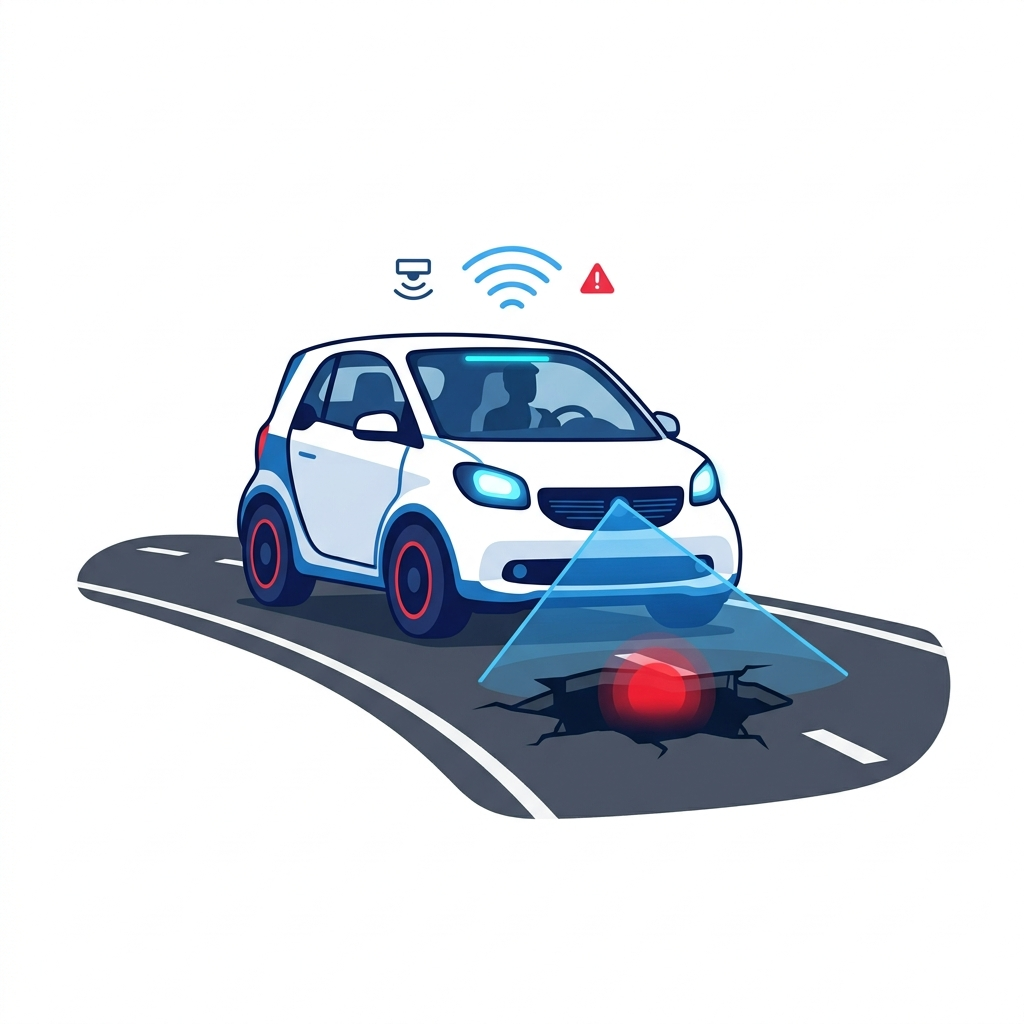
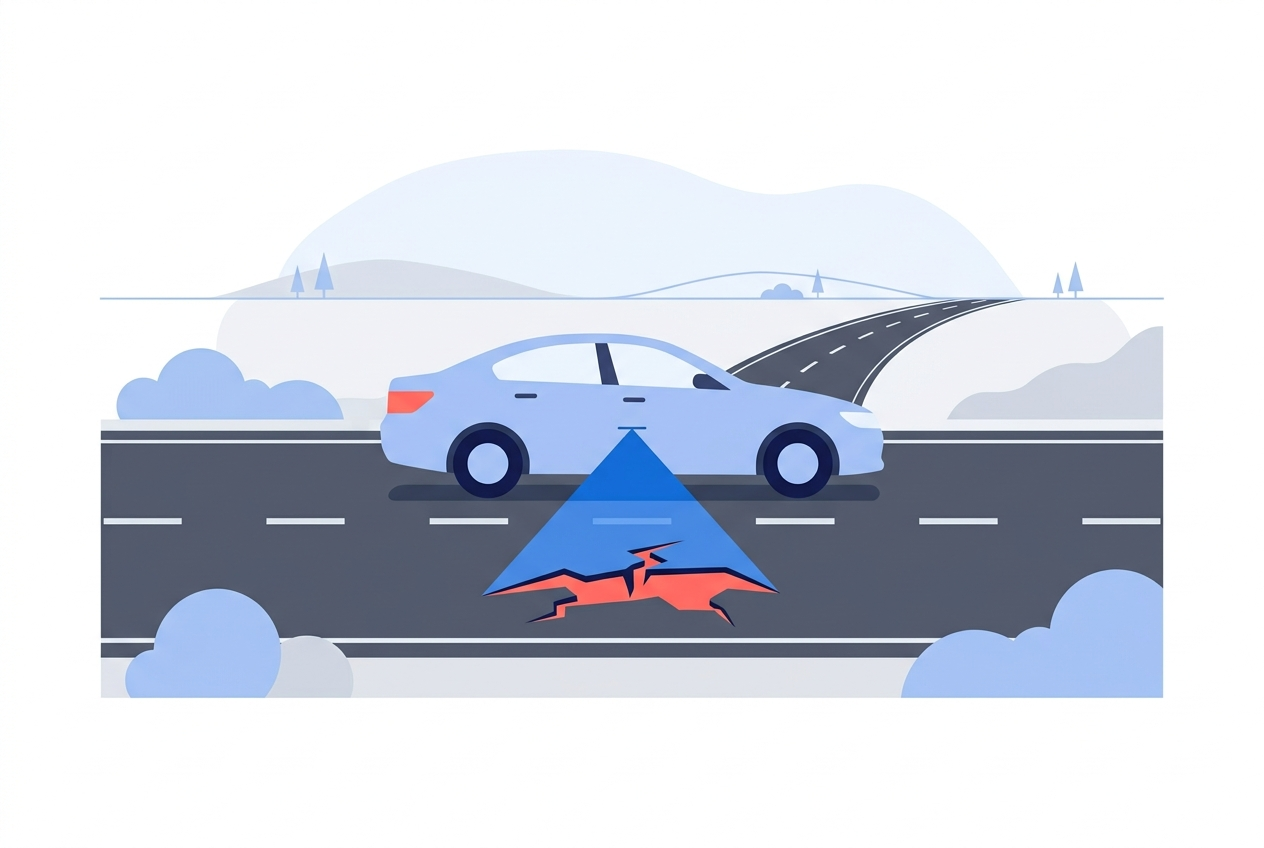
style: redesign purpose, features, application with illustration and numbered steps

diff --git a/frontend/src/pages/Landing.jsx b/frontend/src/pages/Landing.jsx
@@ -101,47 +101,124 @@ export default function Landing() {
    </section>
 
    {/* Purpose */}
-   {/* Purpose */}
-   <section className="full-screen-section" id="purpose" style={{backgroundColor: "#ffffff", padding: "120px 24px", overflow: "hidden"}}>
-    <div className="section-inner" style={{maxWidth: "1200px", margin: "0 auto"}}>
-     <div className="section-heading fade-up" style={{textAlign: "center", marginBottom: "80px"}}>
-      <h2 style={{fontSize: "2.5rem", fontWeight: "800", letterSpacing: "-0.05em", color: "#0f172a"}}>개발 목적</h2>
-      <p style={{marginTop: "20px", fontSize: "1.15rem", color: "#64748b", wordBreak: "keep-all", maxWidth: "800px", margin: "20px auto 0"}}>안전한 도로 환경 조성을 위한 스마트 예방 시스템 도입</p>
-     </div>
-     
-     <div style={{display: "flex", flexWrap: "wrap", gap: "60px", alignItems: "center"}} className="fade-up d1">
-      
-      {/* Left side text */}
-      <div style={{flex: "1 1 400px", display: "flex", flexDirection: "column", gap: "40px"}}>
-       <div style={{borderLeft: "4px solid #e11d48", paddingLeft: "24px"}}>
-        <div style={{fontSize: "1.8rem", color: "#e11d48", marginBottom: "12px"}}><i className="fas fa-exclamation-triangle"></i></div>
-        <h3 style={{fontSize: "1.6rem", fontWeight: "800", color: "#0f172a", marginBottom: "16px"}}>기존 방식의 한계</h3>
-        <p style={{fontSize: "1.1rem", color: "#475569", lineHeight: "1.7", wordBreak: "keep-all", margin: 0}}>매년 2만 건 이상의 교통사고가 포트홀 등 도로 노면 결함으로 발생합니다. 기존 순찰 방식은 비용과 시간이 막대하게 소요되며 사전 예방에 한계가 있었습니다.</p>
-       </div>
-       
-       <div style={{borderLeft: "4px solid #2563eb", paddingLeft: "24px"}}>
-        <div style={{fontSize: "1.8rem", color: "#2563eb", marginBottom: "12px"}}><i className="fas fa-shield-alt"></i></div>
-        <h3 style={{fontSize: "1.6rem", fontWeight: "800", color: "#0f172a", marginBottom: "16px"}}>우리의 해결책</h3>
-        <p style={{fontSize: "1.1rem", color: "#475569", lineHeight: "1.7", wordBreak: "keep-all", margin: 0}}>비전 AI와 mmWave 레이더를 결합하여 주행 중 위험 요소를 실시간 탐지하고, 자동 신고 및 앱 알림을 통해 사고를 원천 차단합니다.</p>
-       </div>
-      </div>
-      
-      {/* Right side illustration */}
-      <div style={{flex: "1 1 500px", display: "flex", justifyContent: "center"}}>
-       <img src="/purpose_illustration.jpg" alt="Smart Road Saver Illustration" style={{width: "100%", maxWidth: "500px", borderRadius: "24px", boxShadow: "0 20px 40px rgba(0,0,0,0.08)", mixBlendMode: "multiply"}} />
+    <section className="full-screen-section" id="purpose" style={{backgroundColor: '#ffffff', padding: '120px 24px'}}>
+     <div className="section-inner" style={{maxWidth: '1200px', margin: '0 auto'}}>
+      <div className="section-heading fade-up" style={{textAlign: 'center', marginBottom: '80px'}}>
+       <h2 style={{fontSize: '2.5rem', fontWeight: '800', letterSpacing: '-0.05em', color: '#0f172a'}}>개발 목적</h2>
+       <p style={{marginTop: '20px', fontSize: '1.15rem', color: '#64748b', wordBreak: 'keep-all', maxWidth: '800px', margin: '20px auto 0'}}>안전한 도로 환경 조성을 위한 스마트 예방 시스템 도입</p>
       </div>
 
+      <div style={{display: 'flex', flexWrap: 'wrap', gap: '80px', alignItems: 'center'}} className="fade-up d1">
+       {/* Illustration */}
+       <div style={{flex: '1 1 380px', display: 'flex', justifyContent: 'center'}}>
+        <img src="/purpose_illustration.jpg" alt="도로 위험요소 탐지 일러스트" style={{width: '100%', maxWidth: '460px', borderRadius: '20px'}} />
+       </div>
+       {/* Text */}
+       <div style={{flex: '1 1 400px', display: 'flex', flexDirection: 'column', gap: '48px'}}>
+        <div>
+         <div style={{display: 'flex', alignItems: 'center', gap: '12px', marginBottom: '16px'}}>
+          <span style={{width: '36px', height: '36px', borderRadius: '50%', background: '#fef2f2', color: '#ef4444', display: 'inline-flex', alignItems: 'center', justifyContent: 'center', fontSize: '1rem'}}><i className="fas fa-times"></i></span>
+          <h3 style={{fontSize: '1.4rem', fontWeight: '800', color: '#0f172a', margin: 0}}>기존 방식의 한계</h3>
+         </div>
+         <p style={{fontSize: '1.05rem', color: '#475569', lineHeight: '1.75', wordBreak: 'keep-all', margin: 0, paddingLeft: '48px'}}>매년 2만 건 이상의 교통사고가 포트홀 등 도로 노면 결함으로 발생합니다. 기존 순찰 방식은 비용과 시간이 막대하게 소요되며 사전 예방에 한계가 있었습니다.</p>
+        </div>
+        <div style={{height: '1px', background: '#e2e8f0'}}></div>
+        <div>
+         <div style={{display: 'flex', alignItems: 'center', gap: '12px', marginBottom: '16px'}}>
+          <span style={{width: '36px', height: '36px', borderRadius: '50%', background: '#eff6ff', color: '#3b82f6', display: 'inline-flex', alignItems: 'center', justifyContent: 'center', fontSize: '1rem'}}><i className="fas fa-check"></i></span>
+          <h3 style={{fontSize: '1.4rem', fontWeight: '800', color: '#0f172a', margin: 0}}>우리의 해결책</h3>
+         </div>
+         <p style={{fontSize: '1.05rem', color: '#475569', lineHeight: '1.75', wordBreak: 'keep-all', margin: 0, paddingLeft: '48px'}}>비전 AI와 mmWave 레이더를 결합하여 주행 중 위험 요소를 실시간 탐지하고, 자동 신고 및 앱 알림을 통해 사고를 원천 차단합니다.</p>
+        </div>
+       </div>
+      </div>
      </div>
-    </div>
-   </section>
+    </section>
 
-   {/* Features */}
-   {/* Features */}
-   {/* Features (Using the Timeline Design) */}
-   <section className="full-screen-section" id="features" style={{backgroundColor: "#f8fafc", padding: "120px 24px"}}><div className="section-inner" style={{maxWidth: "1200px", margin: "0 auto"}}><div className="section-heading fade-up" style={{textAlign: "center", marginBottom: "80px"}}><h2 style={{fontSize: "2.5rem", fontWeight: "800", letterSpacing: "-0.05em", color: "#0f172a"}}>주요 내용 및 특징</h2><p style={{marginTop: "20px", fontSize: "1.15rem", color: "#64748b", wordBreak: "keep-all", maxWidth: "800px", margin: "20px auto 0"}}><span style={{whiteSpace: 'nowrap'}}>SMART ROAD SAVER</span>는 하드웨어부터 AI 딥러닝, 백엔드 서버, 앱과 웹의 프론트엔드까지 모든 과정을 직접 구현하고 개발한 시스템입니다.</p></div><div style={{display: "grid", gridTemplateColumns: "repeat(auto-fit, minmax(300px, 1fr))", gap: "60px"}} className="fade-up d1"><div><div style={{width: "60px", height: "60px", borderRadius: "16px", background: "#e0e7ff", color: "#4f46e5", display: "flex", alignItems: "center", justifyContent: "center", fontSize: "1.8rem", marginBottom: "24px"}}><i className="fas fa-microchip"></i></div><h3 style={{fontSize: "1.5rem", fontWeight: "800", color: "#0f172a", marginBottom: "16px"}}>하드웨어 (mmWave 레이더 도입)</h3><p style={{fontSize: "1.1rem", color: "#475569", lineHeight: "1.7", wordBreak: "keep-all"}}>기존 비전 AI의 한계였던 젖은 노면 및 블랙아이스 탐지를 위해 mmWave 레이더를 도입하여 어떠한 환경에서도 완벽한 탐지를 지원합니다.</p></div><div><div style={{width: "60px", height: "60px", borderRadius: "16px", background: "#dbeafe", color: "#2563eb", display: "flex", alignItems: "center", justifyContent: "center", fontSize: "1.8rem", marginBottom: "24px"}}><i className="fas fa-brain"></i></div><h3 style={{fontSize: "1.5rem", fontWeight: "800", color: "#0f172a", marginBottom: "16px"}}>AI 모델 및 데이터 학습</h3><p style={{fontSize: "1.1rem", color: "#475569", lineHeight: "1.7", wordBreak: "keep-all"}}>카메라와 레이더 센서를 Jetson Nano에 장착하고, 직접 수집한 방대한 도로 결함 데이터를 라벨링 및 학습시킨 독자적인 객체 탐지 모델을 가동합니다.</p></div><div><div style={{width: "60px", height: "60px", borderRadius: "16px", background: "#f3e8ff", color: "#9333ea", display: "flex", alignItems: "center", justifyContent: "center", fontSize: "1.8rem", marginBottom: "24px"}}><i className="fas fa-server"></i></div><h3 style={{fontSize: "1.5rem", fontWeight: "800", color: "#0f172a", marginBottom: "16px"}}>백엔드 및 풀스택 구축</h3><p style={{fontSize: "1.1rem", color: "#475569", lineHeight: "1.7", wordBreak: "keep-all"}}>실시간 데이터 통신, 중복 결함 병합 및 자동 신고 로직은 물론, 운전자용 모바일 앱과 관리자용 웹 대시보드를 100% 자체 개발하였습니다.</p></div></div></div></section>
+    {/* Features — numbered step layout */}
+    <section className="full-screen-section" id="features" style={{backgroundColor: '#f8fafc', padding: '120px 24px'}}>
+     <div className="section-inner" style={{maxWidth: '1200px', margin: '0 auto'}}>
+      <div className="section-heading fade-up" style={{textAlign: 'center', marginBottom: '80px'}}>
+       <h2 style={{fontSize: '2.5rem', fontWeight: '800', letterSpacing: '-0.05em', color: '#0f172a'}}>주요 내용 및 특징</h2>
+       <p style={{marginTop: '20px', fontSize: '1.15rem', color: '#64748b', wordBreak: 'keep-all', maxWidth: '800px', margin: '20px auto 0'}}><span style={{whiteSpace: 'nowrap'}}>SMART ROAD SAVER</span>는 하드웨어부터 AI, 서버, 프론트엔드까지 모든 과정을 직접 구현한 시스템입니다.</p>
+      </div>
 
-   {/* Application */}
-   <section className="full-screen-section" id="application" style={{backgroundColor: "#ffffff", padding: "120px 24px"}}><div className="section-inner" style={{maxWidth: "1200px", margin: "0 auto"}}><div className="section-heading fade-up" style={{textAlign: "center", marginBottom: "80px"}}><h2 style={{fontSize: "2.5rem", fontWeight: "800", letterSpacing: "-0.05em", color: "#0f172a"}}>활용 분야</h2><p style={{marginTop: "20px", fontSize: "1.15rem", color: "#64748b", wordBreak: "keep-all", maxWidth: "800px", margin: "20px auto 0"}}>본 시스템은 차량의 블랙박스 및 전용 기기로 탑재되어 주행 중 도로 위의 위험 요소를 실시간으로 탐지합니다.</p></div><div style={{display: "grid", gridTemplateColumns: "repeat(auto-fit, minmax(300px, 1fr))", gap: "60px"}} className="fade-up d1"><div><div style={{width: "60px", height: "60px", borderRadius: "16px", background: "#d1fae5", color: "#059669", display: "flex", alignItems: "center", justifyContent: "center", fontSize: "1.8rem", marginBottom: "24px"}}><i className="fas fa-bus"></i></div><h3 style={{fontSize: "1.5rem", fontWeight: "800", color: "#0f172a", marginBottom: "16px"}}>전국 단위 관제</h3><p style={{fontSize: "1.1rem", color: "#475569", lineHeight: "1.7", wordBreak: "keep-all"}}>버스, 택시 등 공공 및 일반 차량에 장착되어 전국 도로망을 24시간 실시간으로 모니터링합니다.</p></div><div><div style={{width: "60px", height: "60px", borderRadius: "16px", background: "#fae8ff", color: "#c026d3", display: "flex", alignItems: "center", justifyContent: "center", fontSize: "1.8rem", marginBottom: "24px"}}><i className="fas fa-mobile-alt"></i></div><h3 style={{fontSize: "1.5rem", fontWeight: "800", color: "#0f172a", marginBottom: "16px"}}>운전자 모바일 연동</h3><p style={{fontSize: "1.1rem", color: "#475569", lineHeight: "1.7", wordBreak: "keep-all"}}>위험 구간 접근 시 모바일 앱을 통해 실시간 푸시 알림을 제공하여 안전 운전과 자발적 감속을 유도합니다.</p></div><div><div style={{width: "60px", height: "60px", borderRadius: "16px", background: "#fef3c7", color: "#d97706", display: "flex", alignItems: "center", justifyContent: "center", fontSize: "1.8rem", marginBottom: "24px"}}><i className="fas fa-desktop"></i></div><h3 style={{fontSize: "1.5rem", fontWeight: "800", color: "#0f172a", marginBottom: "16px"}}>웹 대시보드</h3><p style={{fontSize: "1.1rem", color: "#475569", lineHeight: "1.7", wordBreak: "keep-all"}}>수집된 위험 데이터를 지도 상에서 한눈에 파악하고, 지자체와 연계하여 즉각적인 유지보수를 지원합니다.</p></div></div></div></section>
+      <div style={{display: 'flex', flexDirection: 'column', gap: '0'}} className="fade-up d1">
+       {/* Step 1 */}
+       <div style={{display: 'flex', flexWrap: 'wrap', gap: '40px', alignItems: 'flex-start', padding: '48px 0', borderBottom: '1px solid #e2e8f0'}}>
+        <div style={{minWidth: '80px'}}>
+         <span style={{fontSize: '3.5rem', fontWeight: '900', color: '#e2e8f0', lineHeight: 1}}>01</span>
+        </div>
+        <div style={{flex: '1 1 300px'}}>
+         <div style={{display: 'flex', alignItems: 'center', gap: '12px', marginBottom: '16px'}}>
+          <i className="fas fa-microchip" style={{fontSize: '1.4rem', color: '#4f46e5'}}></i>
+          <h3 style={{fontSize: '1.4rem', fontWeight: '800', color: '#0f172a', margin: 0}}>하드웨어 (mmWave 레이더 도입)</h3>
+         </div>
+         <p style={{fontSize: '1.05rem', color: '#475569', lineHeight: '1.75', wordBreak: 'keep-all', margin: 0}}>기존 비전 AI의 한계였던 젖은 노면 및 블랙아이스 탐지를 위해 mmWave 레이더를 도입하여 어떠한 환경에서도 완벽한 탐지를 지원합니다.</p>
+        </div>
+       </div>
+
+       {/* Step 2 */}
+       <div style={{display: 'flex', flexWrap: 'wrap', gap: '40px', alignItems: 'flex-start', padding: '48px 0', borderBottom: '1px solid #e2e8f0'}}>
+        <div style={{minWidth: '80px'}}>
+         <span style={{fontSize: '3.5rem', fontWeight: '900', color: '#e2e8f0', lineHeight: 1}}>02</span>
+        </div>
+        <div style={{flex: '1 1 300px'}}>
+         <div style={{display: 'flex', alignItems: 'center', gap: '12px', marginBottom: '16px'}}>
+          <i className="fas fa-brain" style={{fontSize: '1.4rem', color: '#2563eb'}}></i>
+          <h3 style={{fontSize: '1.4rem', fontWeight: '800', color: '#0f172a', margin: 0}}>AI 모델 및 데이터 학습</h3>
+         </div>
+         <p style={{fontSize: '1.05rem', color: '#475569', lineHeight: '1.75', wordBreak: 'keep-all', margin: 0}}>카메라와 레이더 센서를 Jetson Nano에 장착하고, 직접 수집한 도로 결함 데이터를 학습시킨 독자적인 객체 탐지 모델을 가동합니다.</p>
+        </div>
+       </div>
+
+       {/* Step 3 */}
+       <div style={{display: 'flex', flexWrap: 'wrap', gap: '40px', alignItems: 'flex-start', padding: '48px 0'}}>
+        <div style={{minWidth: '80px'}}>
+         <span style={{fontSize: '3.5rem', fontWeight: '900', color: '#e2e8f0', lineHeight: 1}}>03</span>
+        </div>
+        <div style={{flex: '1 1 300px'}}>
+         <div style={{display: 'flex', alignItems: 'center', gap: '12px', marginBottom: '16px'}}>
+          <i className="fas fa-code" style={{fontSize: '1.4rem', color: '#9333ea'}}></i>
+          <h3 style={{fontSize: '1.4rem', fontWeight: '800', color: '#0f172a', margin: 0}}>백엔드 및 풀스택 구축</h3>
+         </div>
+         <p style={{fontSize: '1.05rem', color: '#475569', lineHeight: '1.75', wordBreak: 'keep-all', margin: 0}}>실시간 데이터 통신, 중복 결함 병합 및 자동 신고 로직은 물론, 운전자용 모바일 앱과 관리자용 웹 대시보드를 100% 자체 개발하였습니다.</p>
+        </div>
+       </div>
+      </div>
+     </div>
+    </section>
+
+    {/* Application — horizontal with connecting dots */}
+    <section className="full-screen-section" id="application" style={{backgroundColor: '#ffffff', padding: '120px 24px'}}>
+     <div className="section-inner" style={{maxWidth: '1200px', margin: '0 auto'}}>
+      <div className="section-heading fade-up" style={{textAlign: 'center', marginBottom: '80px'}}>
+       <h2 style={{fontSize: '2.5rem', fontWeight: '800', letterSpacing: '-0.05em', color: '#0f172a'}}>활용 분야</h2>
+       <p style={{marginTop: '20px', fontSize: '1.15rem', color: '#64748b', wordBreak: 'keep-all', maxWidth: '800px', margin: '20px auto 0'}}>본 시스템은 차량의 블랙박스 및 전용 기기로 탑재되어 주행 중 도로 위의 위험 요소를 실시간으로 탐지합니다.</p>
+      </div>
+
+      <div style={{display: 'flex', flexWrap: 'wrap', justifyContent: 'center', gap: '32px'}} className="fade-up d1">
+       {/* Item 1 */}
+       <div style={{flex: '1 1 280px', maxWidth: '340px', textAlign: 'center', padding: '40px 24px', background: '#f8fafc', borderRadius: '20px', border: '1px solid #f1f5f9'}}>
+        <div style={{width: '72px', height: '72px', borderRadius: '50%', background: '#ecfdf5', color: '#059669', display: 'flex', alignItems: 'center', justifyContent: 'center', fontSize: '2rem', margin: '0 auto 24px'}}><i className="fas fa-bus"></i></div>
+        <h3 style={{fontSize: '1.4rem', fontWeight: '800', color: '#0f172a', marginBottom: '16px'}}>전국 단위 관제</h3>
+        <p style={{fontSize: '1.05rem', color: '#475569', lineHeight: '1.7', wordBreak: 'keep-all', margin: 0}}>버스, 택시 등 공공 및 일반 차량에 장착되어 전국 도로망을 24시간 모니터링합니다.</p>
+       </div>
+       {/* Item 2 */}
+       <div style={{flex: '1 1 280px', maxWidth: '340px', textAlign: 'center', padding: '40px 24px', background: '#f8fafc', borderRadius: '20px', border: '1px solid #f1f5f9'}}>
+        <div style={{width: '72px', height: '72px', borderRadius: '50%', background: '#faf5ff', color: '#9333ea', display: 'flex', alignItems: 'center', justifyContent: 'center', fontSize: '2rem', margin: '0 auto 24px'}}><i className="fas fa-mobile-alt"></i></div>
+        <h3 style={{fontSize: '1.4rem', fontWeight: '800', color: '#0f172a', marginBottom: '16px'}}>운전자 모바일 연동</h3>
+        <p style={{fontSize: '1.05rem', color: '#475569', lineHeight: '1.7', wordBreak: 'keep-all', margin: 0}}>위험 구간 접근 시 모바일 앱을 통해 실시간 푸시 알림을 제공합니다.</p>
+       </div>
+       {/* Item 3 */}
+       <div style={{flex: '1 1 280px', maxWidth: '340px', textAlign: 'center', padding: '40px 24px', background: '#f8fafc', borderRadius: '20px', border: '1px solid #f1f5f9'}}>
+        <div style={{width: '72px', height: '72px', borderRadius: '50%', background: '#fffbeb', color: '#d97706', display: 'flex', alignItems: 'center', justifyContent: 'center', fontSize: '2rem', margin: '0 auto 24px'}}><i className="fas fa-desktop"></i></div>
+        <h3 style={{fontSize: '1.4rem', fontWeight: '800', color: '#0f172a', marginBottom: '16px'}}>웹 대시보드</h3>
+        <p style={{fontSize: '1.05rem', color: '#475569', lineHeight: '1.7', wordBreak: 'keep-all', margin: 0}}>수집된 위험 데이터를 한눈에 파악하고 즉각적인 유지보수를 지원합니다.</p>
+       </div>
+      </div>
+     </div>
+    </section>
 
    {/* Expected Effects */}
    <section className="full-screen-section" id="effects" style={{backgroundColor: "#0a0a0a", padding: "120px 24px"}}><div className="section-inner" style={{maxWidth: "1200px", margin: "0 auto"}}><div className="section-heading fade-up" style={{textAlign: "center", marginBottom: "80px"}}><h2 style={{fontSize: "2.5rem", fontWeight: "800", letterSpacing: "-0.05em", color: "#fff"}}>기대 효과</h2><p style={{marginTop: "20px", fontSize: "1.15rem", color: "#94a3b8", wordBreak: "keep-all", maxWidth: "800px", margin: "20px auto 0"}}>SMART ROAD SAVER가 만들어갈 긍정적인 변화와 사회적 가치</p></div><div style={{display: "grid", gridTemplateColumns: "repeat(auto-fit, minmax(300px, 1fr))", gap: "60px"}} className="fade-up d1"><div><div style={{width: "60px", height: "60px", borderRadius: "16px", background: "rgba(59,130,246,0.1)", color: "#60a5fa", display: "flex", alignItems: "center", justifyContent: "center", fontSize: "1.8rem", marginBottom: "24px"}}><i className="fas fa-shield-alt"></i></div><h3 style={{fontSize: "1.5rem", fontWeight: "800", color: "#fff", marginBottom: "16px"}}>사고 원천 예방</h3><p style={{fontSize: "1.1rem", color: "#a3a3a3", lineHeight: "1.7", wordBreak: "keep-all"}}>실시간 탐지와 즉각적인 자동 신고로 도로 위 인명 피해와 사고를 원천적으로 예방합니다.</p></div><div><div style={{width: "60px", height: "60px", borderRadius: "16px", background: "rgba(16,185,129,0.1)", color: "#34d399", display: "flex", alignItems: "center", justifyContent: "center", fontSize: "1.8rem", marginBottom: "24px"}}><i className="fas fa-car-crash"></i></div><h3 style={{fontSize: "1.5rem", fontWeight: "800", color: "#fff", marginBottom: "16px"}}>2차 피해 차단</h3><p style={{fontSize: "1.1rem", color: "#a3a3a3", lineHeight: "1.7", wordBreak: "keep-all"}}>접근 경고 알림으로 자발적인 감속과 우회를 유도하여 결빙이나 포트홀로 인한 2차 사고를 방지합니다.</p></div><div><div style={{width: "60px", height: "60px", borderRadius: "16px", background: "rgba(245,158,11,0.1)", color: "#fbbf24", display: "flex", alignItems: "center", justifyContent: "center", fontSize: "1.8rem", marginBottom: "24px"}}><i className="fas fa-won-sign"></i></div><h3 style={{fontSize: "1.5rem", fontWeight: "800", color: "#fff", marginBottom: "16px"}}>비용 획기적 절감</h3><p style={{fontSize: "1.1rem", color: "#a3a3a3", lineHeight: "1.7", wordBreak: "keep-all"}}>수작업 순찰과 사후 신고에 의존하던 방식을 100% 자동화하여 막대한 유지보수 예산과 시간을 절감합니다.</p></div></div></div></section>
